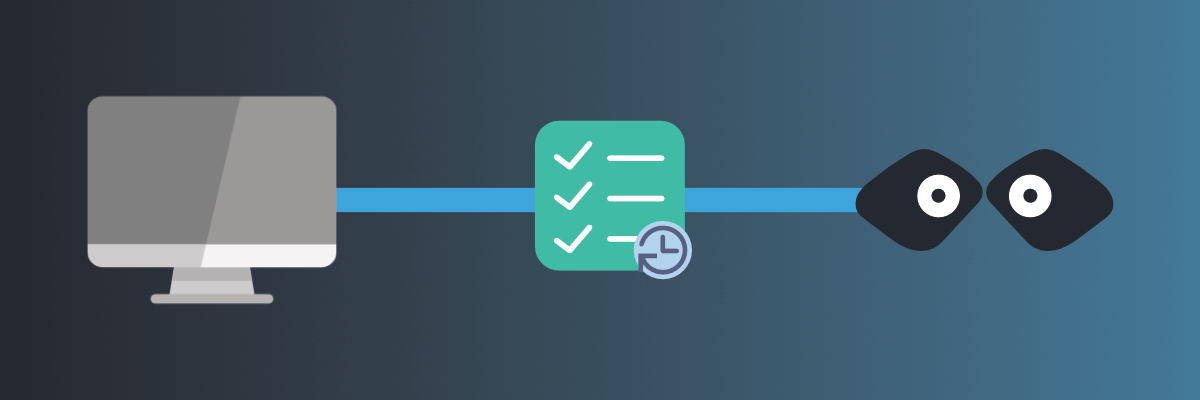
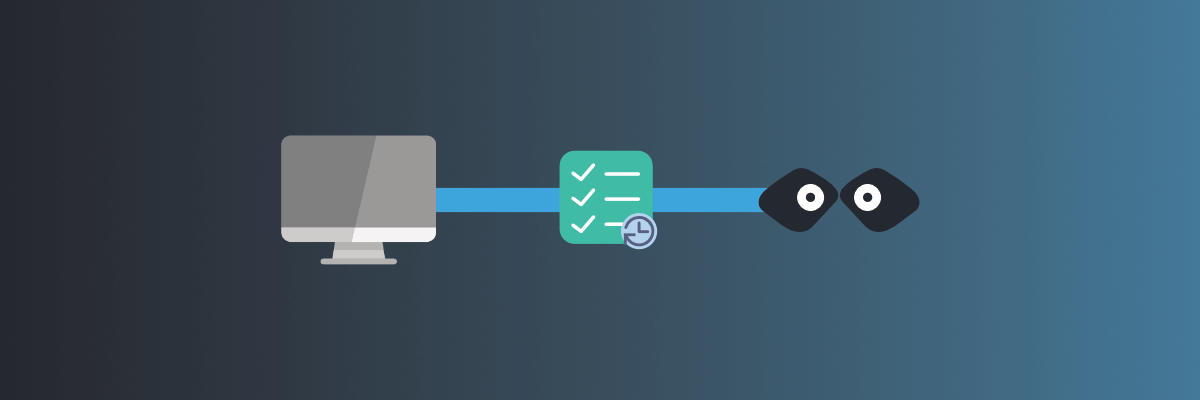
Add no cover mode for cards
adjust CTA margins/paddings
replace some images

Changed region(s): [[0.0617, 0.24, 0.37, 0.78], [0.6167, 0.36, 0.925, 0.63], [0.4317, 0.3, 0.5858, 0.69]]

diff --git a/components/cards.tsx b/components/cards.tsx
@@ -7,11 +7,13 @@ const Cards: FunctionComponent<{
   small?: boolean;
   medium?: boolean;
   large?: boolean;
+  cover?: boolean;
 }> = function (props) {
   let sizing = 'col-12';
   let textSizing = 'col-lg-6 col-12';
   let cardRow = '';
   let cardBorder = '';
+  let cover = props.cover !== undefined ? props.cover : true;
 
   if (props.small) {
     sizing = 'col-lg-4';
@@ -52,14 +54,19 @@ const Cards: FunctionComponent<{
                       >
                         {article.data.image && (
                           <div
-                            className={`col-12 col-lg-6 bg-cover ${
+                            className={`col-12 col-lg-6 ${
+                              cover ? 'bg-cover' : ''
+                            } ${
                               !props.large && article.data.image
                                 ? 'card-img-top'
                                 : 'card-img-start'
                             } `}
                             style={{
                               backgroundImage: `url('/images/${props.path}/${article.data.image}')`,
-                              minHeight: '200px'
+                              minHeight: '200px',
+                              backgroundRepeat: 'no-repeat',
+                              backgroundPosition: 'center',
+                              backgroundSize: cover ? 'cover' : '80%'
                             }}
                           >
                             <div className='img-fluid d-lg-none invisible'>
@@ -73,20 +80,6 @@ const Cards: FunctionComponent<{
 
                         {article.data.title && (
                           <div className={`${textSizing} p-5`}>
-                            {article.data.logo && (
-                              <div
-                                className={`img-fluid mx-auto p-5 ${
-                                  props.large ? 'w-50' : ''
-                                }`}
-                              >
-                                {article.data.logo && (
-                                  <img
-                                    src={`/images/${props.path}/${article.data.logo}`}
-                                    alt={article.data.logoAlt}
-                                  />
-                                )}
-                              </div>
-                            )}
                             <div className='text-gray-700 d-flex flex-column align-items-center'>
                               <h3 className='py-3 h4'>{article.data.title}</h3>
                               <p className='col-10 text-muted'>

diff --git a/components/contact-banner.tsx b/components/contact-banner.tsx
@@ -1,24 +1,20 @@
 import Link from 'next/link';
 import { FunctionComponent } from 'react';
 
-const ContactBanner: FunctionComponent<{
-  title?: string;
-  ctaText?: string;
-}> = function (props) {
+const ContactBanner: FunctionComponent<{}> = function (props) {
   return (
     <div className='bg-gray-200'>
-      <div className='container py-5 border-bottom border-gray-300'>
+      <div className='container py-8 border-bottom border-gray-300'>
         <div className='row align-items-center text-center text-lg-start'>
           <div className='col-12 col-lg-9'>
-            <h4 className='mb-4 mb-lg-1'>
-              {props.title ||
-                'Feedback? Questions? We are always here to help.'}
+            <h4 className='mb-4 mb-lg-1 fw-bold text-gray-700'>
+              Feedback? Questions? We are always here to help.
             </h4>
           </div>
           <div className='col-12 col-lg-3 d-flex justify-content-end'>
             <Link href='/contact/'>
               <button className='col-12 btn btn-primary-soft'>
-                <span> {props.ctaText || 'Contact us'}</span>
+                <span> Contact us</span>
               </button>
             </Link>
           </div>

diff --git a/components/newsletter.tsx b/components/newsletter.tsx
@@ -3,10 +3,12 @@ import { FunctionComponent } from 'react';
 const Newsletter: FunctionComponent = function () {
   return (
     <div className='bg-gray-200 pt-4'>
-      <div className='container pb-7 border-bottom border-gray-300'>
+      <div className='container py-8 border-bottom border-gray-300'>
         <div className='row align-items-center text-lg-start text-center'>
           <div className='col-12 col-lg-7'>
-            <h4 className='mb-1 fw-bold'>Get our stories delivered</h4>
+            <h4 className='mb-1 fw-bold text-gray-700'>
+              Get our stories delivered
+            </h4>
 
             <p className='fs-lg text-muted mb-4 mb-lg-0'>
               Enter your email address to receive Mockoon's latest updates

diff --git a/pages/index.tsx b/pages/index.tsx
@@ -446,8 +446,6 @@ class Index extends React.Component {
                       title: 'API UX research with Mockoon',
                       image: 'impala-logo-black.svg',
                       imageAlt: 'Impala logo',
-                      logo: 'impala-logo-black.svg',
-                      logoAlt: 'Impala logo',
                       header: {},
                       excerpt:
                         'Learn how Impala uses Mockoon to conduct API user research'
@@ -455,6 +453,7 @@ class Index extends React.Component {
                   }
                 ]}
                 large
+                cover={false}
               />
             </div>
           </div>

diff --git a/components/download.tsx b/components/download.tsx
@@ -5,9 +5,9 @@ const Download: FunctionComponent = function () {
   return (
     <section>
       <div className='container pb-5 border-bottom'>
-        <div className='row align-items-center py-5 pb-7 border-bottom border-gray-300 text-center text-lg-start'>
+        <div className='row align-items-center py-8 border-bottom border-gray-300 text-center text-lg-start'>
           <div className='col-12 col-lg-9'>
-            <h3 className='fw-bold mb-1'>
+            <h3 className='fw-bold text-gray-700 mb-1'>
               <i className='icon-download'></i> Get Mockoon
             </h3>
             <p className='text-muted mb-6 mb-lg-0'>

diff --git a/components/footer.tsx b/components/footer.tsx
@@ -29,7 +29,7 @@ const Footer: FunctionComponent = function () {
   return (
     <footer className='py-3 bg-gray-200'>
       <div className='container'>
-        <div className='row mb-6 py-4'>
+        <div className='row mb-6'>
           {displayNewsletter.includes(router.pathname) && <Newsletter />}
           {displayContact.includes(router.pathname) && <ContactBanner />}
           {displayDownload.includes(router.pathname) && <Download />}

diff --git a/pages/case-studies/index.tsx b/pages/case-studies/index.tsx
@@ -30,7 +30,12 @@ export default function CaseStudies(props: { articles: ArticleList }) {
 
       <section className='pb-8'>
         <div className='container'>
-          <Cards large path='case-studies' articles={props.articles} />
+          <Cards
+            large
+            path='case-studies'
+            articles={props.articles}
+            cover={false}
+          />
         </div>
       </section>
     </Layout>

diff --git a/content/blog/mockoon-cli-now-available.md b/content/blog/mockoon-cli-now-available.md
@@ -19,11 +19,11 @@ You are one command away to using it. Check the [installation instructions](http
 
 The CLI takes a [Mockoon data export file](docs:import-export-data) and runs the specified environment. You can either provide the data as a local file or a URL where you host it. 
 
-![Mockoon CLI start command output](/images/blog/cli-mockoon-start.png)
+![Mockoon CLI start command output](/images/blog/cli-available/cli-mockoon-start.png)
 
 You can also list the running mock API processes to get some information about them (port, PID, CPU, memory, etc.) or stop them completely.
 
-![Mockoon CLI list command output](/images/blog/cli-mockoon-list.png)
+![Mockoon CLI list command output](/images/blog/cli-available/cli-mockoon-list.png)
 
 Mockoon CLI supports all of Mockoon's features: [templating system](https://mockoon.com/docs/latest/templating/overview/), [proxy mode](https://mockoon.com/docs/latest/proxy-mode/), [route response rules](https://mockoon.com/docs/latest/route-responses/dynamic-rules/), etc.
 
